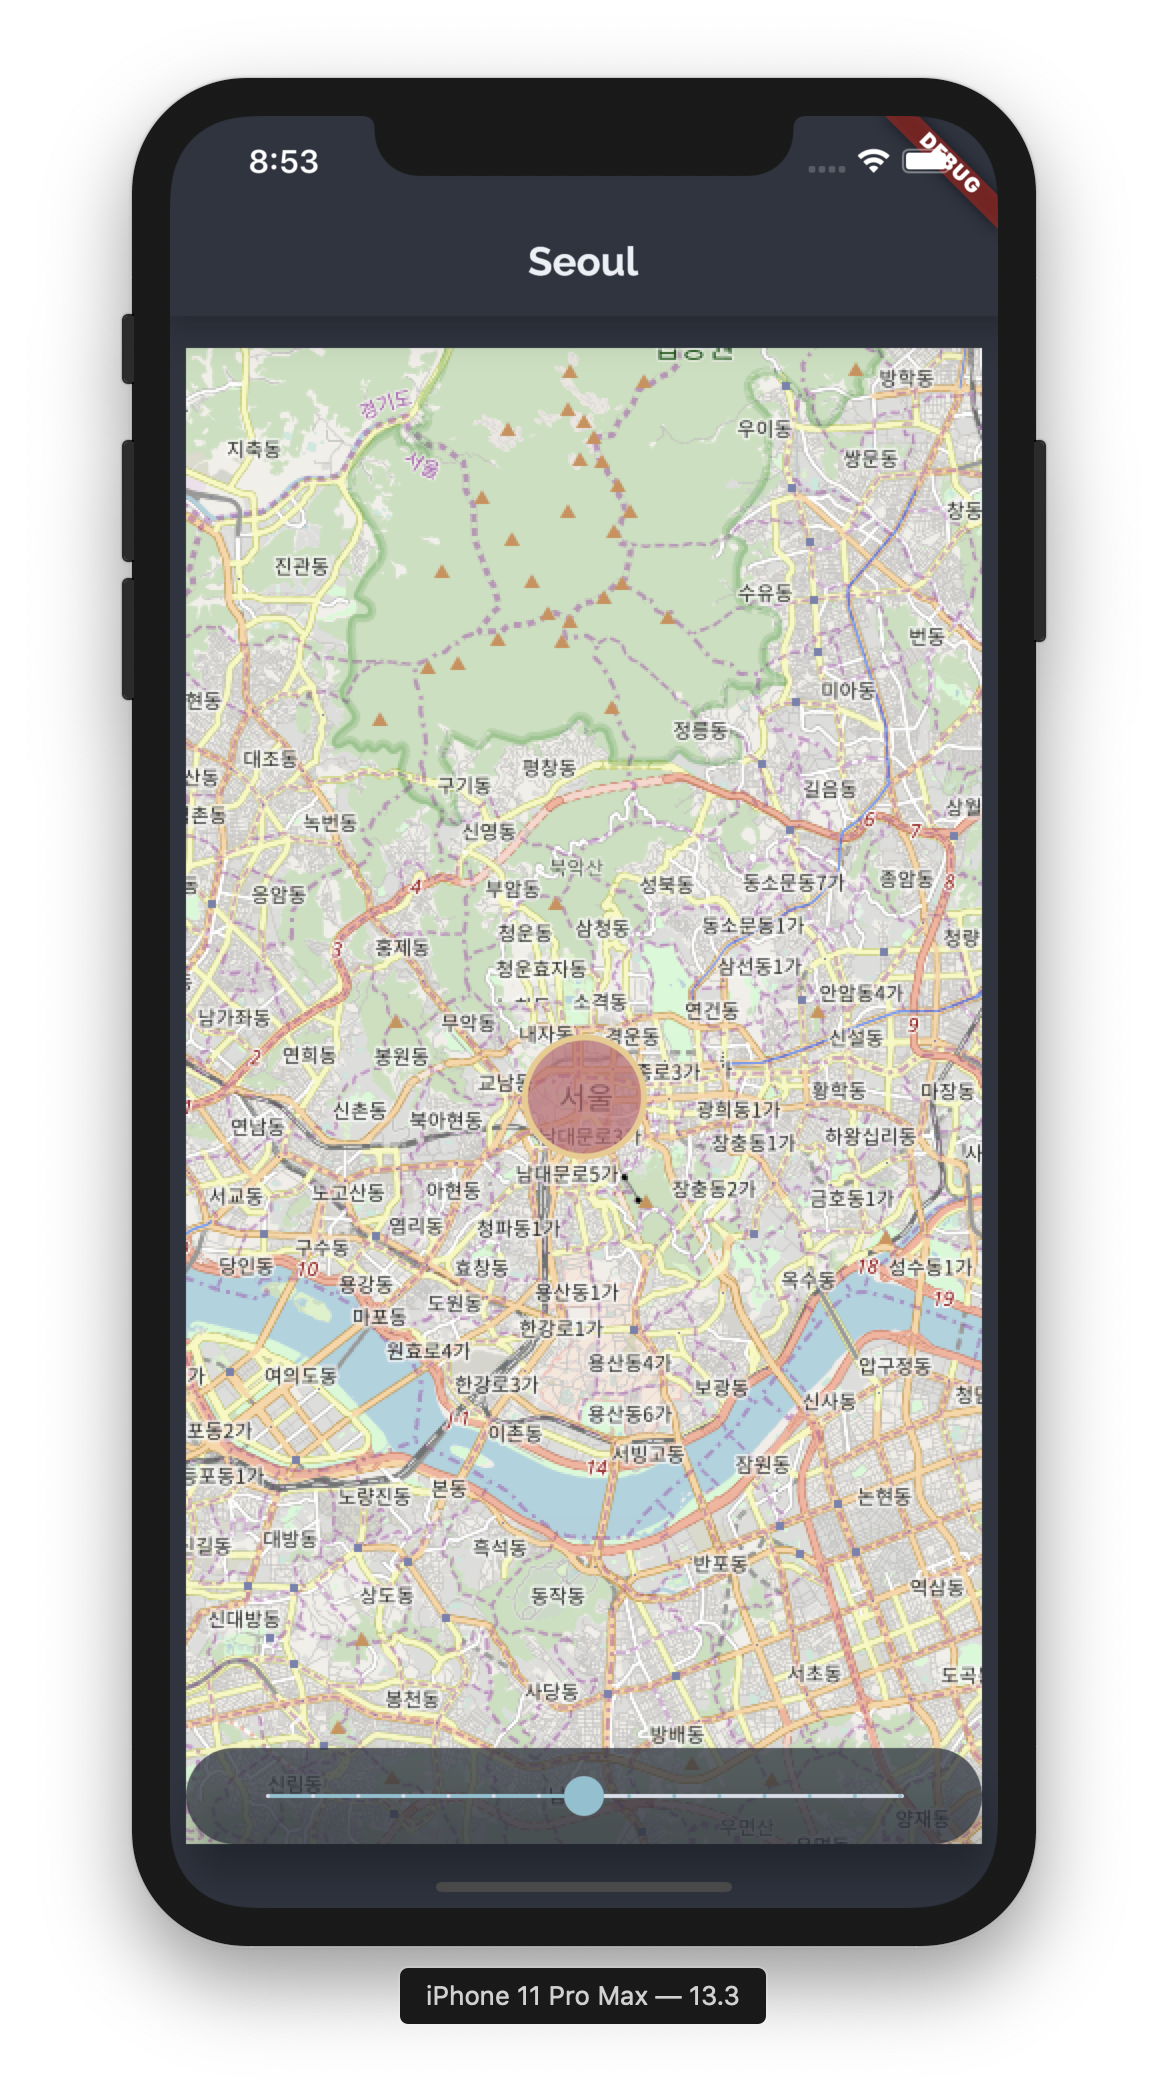
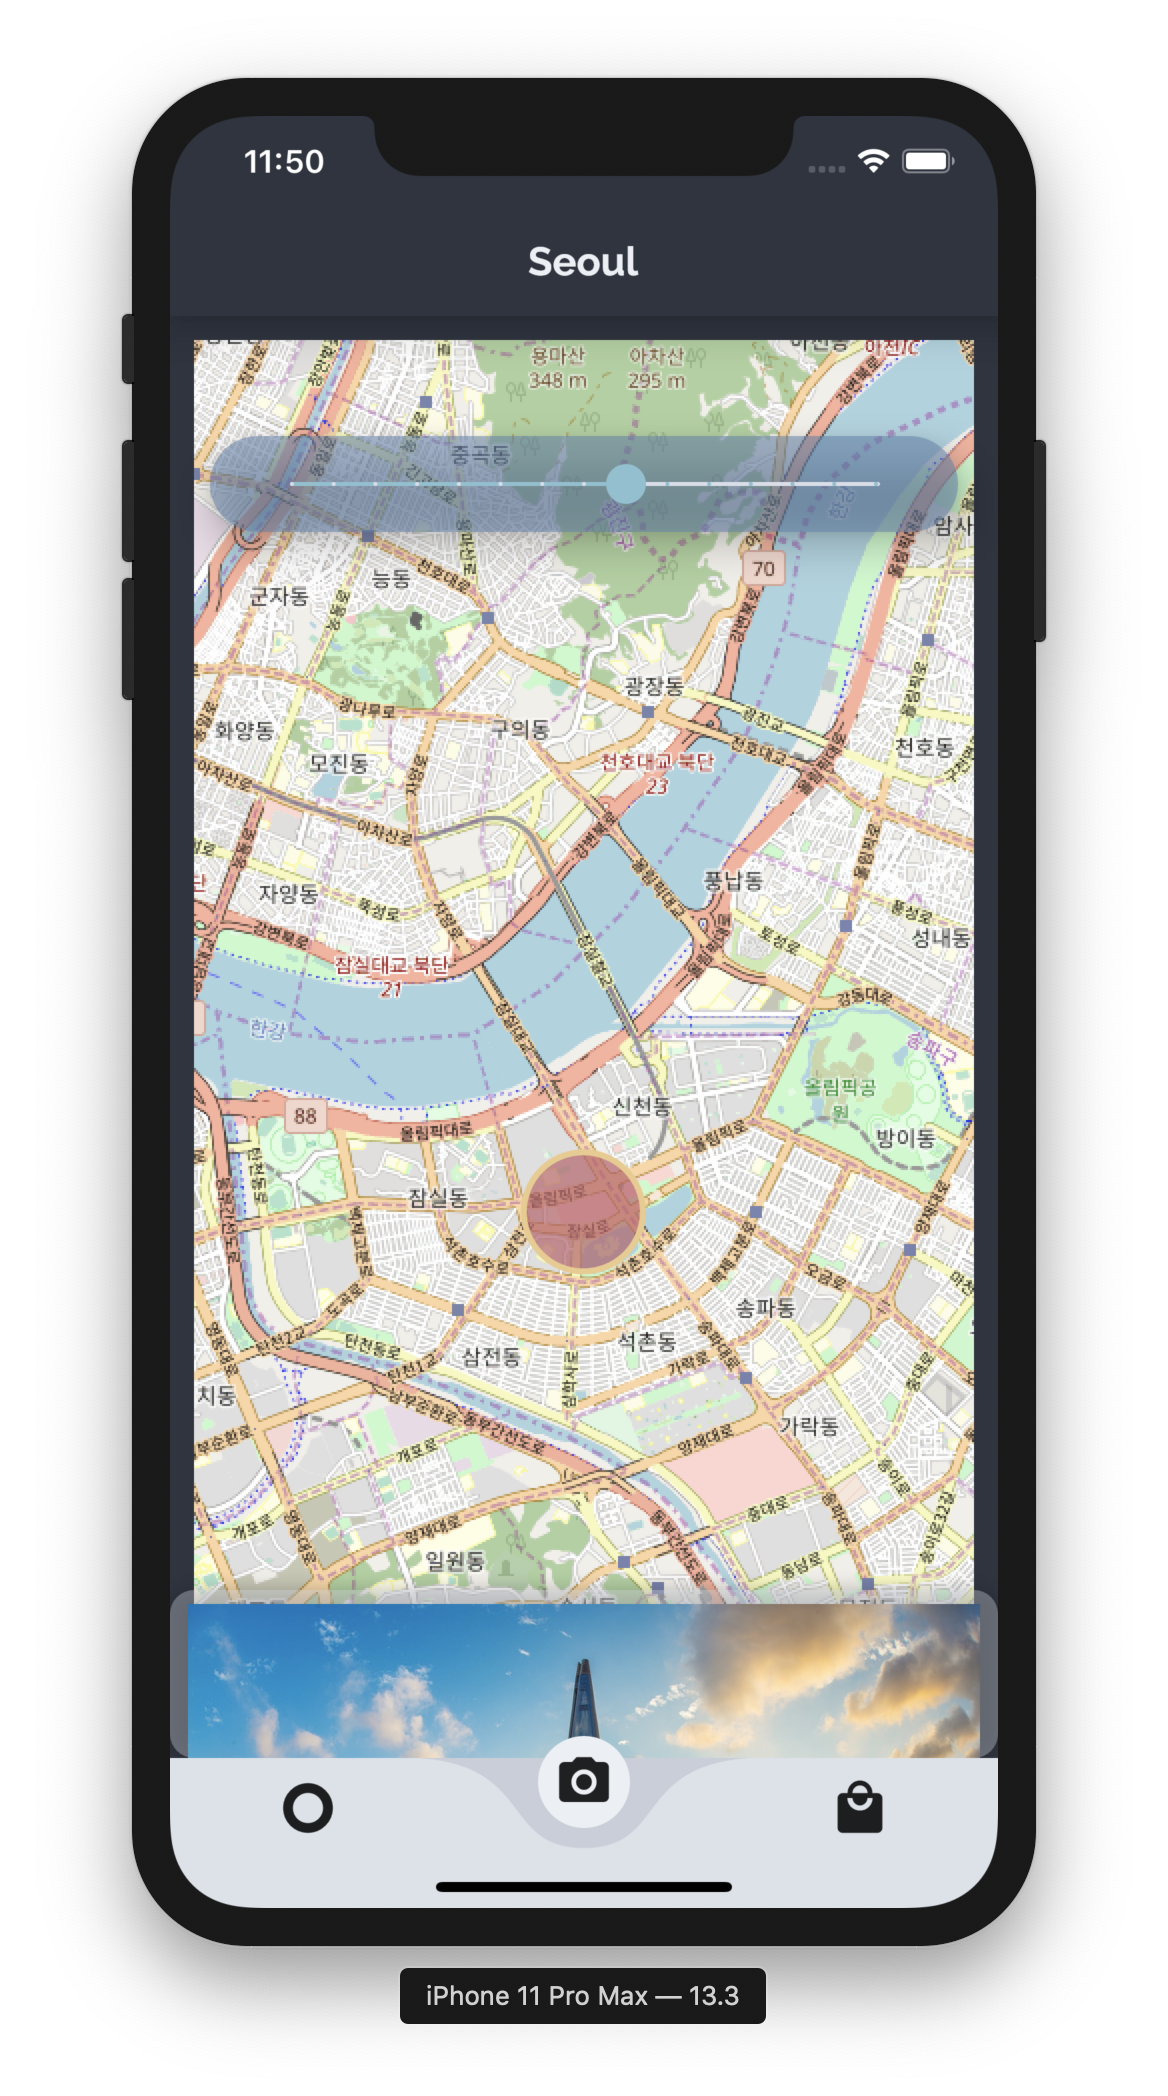
feat(UI): demo of bottom navigation

diff --git a/lib/main.dart b/lib/main.dart
@@ -1,5 +1,6 @@
 import 'package:flutter/material.dart';
 
+import 'package:curved_navigation_bar/curved_navigation_bar.dart';
 import 'package:flutter_map/flutter_map.dart';
 import 'package:flutter_mobx/flutter_mobx.dart';
 import 'package:google_fonts/google_fonts.dart';
@@ -12,6 +13,8 @@ import 'package:supercharged/supercharged.dart';
 
 import 'package:fl_seoul/store/zoom_slider.dart';
 import 'package:fl_seoul/util.dart';
+import 'package:fl_seoul/widgets/dongdaemoon_widget.dart';
+import 'package:fl_seoul/widgets/lotte_widget.dart';
 import 'package:fl_seoul/widgets/seoul_widget.dart';
 
 void main() async {
@@ -50,19 +53,29 @@ class CirclePage extends StatefulWidget {
   _CirclePageState createState() => _CirclePageState();
 }
 
-class _CirclePageState extends State<CirclePage> {
-  static final double _latitude = 37.5665;
-  static final double _longitude = 126.9780;
-
+class _CirclePageState extends State<CirclePage> with TickerProviderStateMixin {
+  int _tapIndex;
   MapController _mapController;
   LatLng _center;
+  CircleMarker _marker;
+  List<LatLng> locations = [
+    LatLng(37.5665, 126.9780), // Seoul City Hall
+    LatLng(37.511234, 127.098030), // Lotte Tower
+    LatLng(37.5704, 127.0078) // Dongdaemoon Market
+  ];
 
   @override
   void initState() {
     super.initState();
 
+    _tapIndex = 0;
     _mapController = MapController();
-    _center = LatLng(_latitude, _longitude);
+    _center = locations[_tapIndex];
+  }
+
+  @override
+  void dispose() {
+    super.dispose();
   }
 
   @override
@@ -70,16 +83,19 @@ class _CirclePageState extends State<CirclePage> {
     final ZoomSlider zoomSlider =
         Provider.of<ZoomSlider>(context, listen: false);
 
-    var circleMarkers = <CircleMarker>[
-      CircleMarker(
-          point: LatLng(_latitude, _longitude),
-          color: '#bf616a'.toColor().withOpacity(0.7),
-          borderColor: '#ebcb8b'.toColor(),
-          borderStrokeWidth: 3,
-          useRadiusInMeter: true,
-          radius: getRadius(zoomSlider.value) // 200 meters | 0.2 km
-          ),
-    ];
+    var _radius = getRadius(zoomSlider.value);
+
+    List<CircleMarker> circleMarkers = locations
+        .asMap()
+        .entries
+        .map((entry) => CircleMarker(
+            point: locations[entry.key],
+            color: '#bf616a'.toColor().withOpacity(0.7),
+            borderColor: '#ebcb8b'.toColor(),
+            borderStrokeWidth: 3,
+            useRadiusInMeter: true,
+            radius: _radius))
+        .toList();
 
     return Scaffold(
         appBar: AppBar(
@@ -91,12 +107,47 @@ class _CirclePageState extends State<CirclePage> {
                         color: '#eceff4'.toColor(),
                         fontWeight: FontWeight.w700)))),
         backgroundColor: '#2e3440'.toColor(),
+        bottomNavigationBar: CurvedNavigationBar(
+          animationDuration: Duration(milliseconds: 500),
+          backgroundColor: '#c8ced9'.toColor(),
+          buttonBackgroundColor: '#eceff4'.toColor(),
+          color: '#e5e9f0'.toColor().withOpacity(0.7),
+          items: <Widget>[
+            Icon(Icons.trip_origin, size: 30),
+            Icon(Icons.local_see, size: 30),
+            Icon(Icons.local_mall, size: 30),
+          ],
+          onTap: (index) {
+            LatLng location;
+            int markerIndex;
+            switch (index) {
+              case 0:
+              case 1:
+              case 2:
+                location = locations[index];
+                markerIndex = index;
+                _tapIndex = index;
+                break;
+              default:
+                location = locations[0];
+                markerIndex = 0;
+                _tapIndex = 0;
+                break;
+            }
+            setState(() {
+              _marker = circleMarkers[markerIndex];
+              _center = location;
+              _radius = getRadius(zoomSlider.value);
+              _animatedMapMove(_center, zoomSlider.value);
+            });
+          },
+        ),
         body: SlidingUpPanel(
-            borderRadius: BorderRadius.all(Radius.circular(16.0)),
-            color: '#2e3440'.toColor().withOpacity(0.35),
-            minHeight: 128.0,
-            maxHeight: 520.0,
-            panel: SeoulWidget(),
+            borderRadius: BorderRadius.all(Radius.circular(12.0)),
+            color: '#d8dee9'.toColor().withOpacity(0.35),
+            minHeight: 84.0,
+            maxHeight: 532.0,
+            panel: _getSlidingUpWidget(_tapIndex),
             body: Consumer<ZoomSlider>(builder: (context, zoomSLider, _) {
               return Padding(
                 padding: EdgeInsets.all(12.0),
@@ -114,7 +165,10 @@ class _CirclePageState extends State<CirclePage> {
                                       urlTemplate:
                                           'https://{s}.tile.openstreetmap.org/{z}/{x}/{y}.png',
                                       subdomains: ['a', 'b', 'c']),
-                                  CircleLayerOptions(circles: circleMarkers)
+                                  CircleLayerOptions(
+                                      circles: _marker != null
+                                          ? <CircleMarker>[_marker]
+                                          : <CircleMarker>[circleMarkers[0]])
                                 ],
                                 mapController: _mapController,
                               ),
@@ -142,8 +196,8 @@ class _CirclePageState extends State<CirclePage> {
                               onChanged: (sliderValue) {
                                 setState(() {
                                   zoomSlider.newvalue(sliderValue);
-                                  _mapController.move(
-                                      _center, zoomSlider.value);
+                                  _radius = getRadius(zoomSlider.value);
+                                  _animatedMapMove(_center, zoomSlider.value);
                                   showSimpleNotification(
                                       Text('Zoom Level set to $sliderValue',
                                           style: GoogleFonts.poppins(
@@ -169,5 +223,48 @@ class _CirclePageState extends State<CirclePage> {
                 ]),
               );
             })));
+  }
+
+  void _animatedMapMove(LatLng destLocation, double destZoom) {
+    final _latTween = Tween<double>(
+        begin: _mapController.center.latitude, end: destLocation.latitude);
+    final _lngTween = Tween<double>(
+        begin: _mapController.center.longitude, end: destLocation.longitude);
+    final _zoomTween = Tween<double>(begin: _mapController.zoom, end: destZoom);
+
+    var controller = AnimationController(
+        duration: const Duration(milliseconds: 650), vsync: this);
+
+    Animation<double> animation =
+        CurvedAnimation(parent: controller, curve: Curves.fastOutSlowIn);
+
+    controller.addListener(() {
+      _mapController.move(
+          LatLng(_latTween.evaluate(animation), _lngTween.evaluate(animation)),
+          _zoomTween.evaluate(animation));
+    });
+
+    animation.addStatusListener((status) {
+      if (status == AnimationStatus.completed) {
+        controller.dispose();
+      } else if (status == AnimationStatus.dismissed) {
+        controller.dispose();
+      }
+    });
+
+    controller.forward();
+  }
+
+  StatelessWidget _getSlidingUpWidget(int index) {
+    switch (index) {
+      case 0:
+        return SeoulWidget();
+      case 1:
+        return LotteWidget();
+      case 2:
+        return DongdaemmonWidget();
+      default:
+        return SeoulWidget();
+    }
   }
 }

diff --git a/lib/widgets/dongdaemoon_widget.dart b/lib/widgets/dongdaemoon_widget.dart
@@ -4,7 +4,7 @@ import 'package:google_fonts/google_fonts.dart';
 import 'package:cached_network_image/cached_network_image.dart';
 import 'package:supercharged/supercharged.dart';
 
-class SeoulWidget extends StatelessWidget {
+class DongdaemmonWidget extends StatelessWidget {
   @override
   Widget build(BuildContext context) {
     return Padding(
@@ -17,12 +17,12 @@ class SeoulWidget extends StatelessWidget {
                 children: <Widget>[
                   CachedNetworkImage(
                     imageUrl:
-                        'https://images.adsttc.com/media/images/52aa/607b/e8e4/4ee8/8f00/0048/slideshow/cityhallct107.jpg',
+                        'https://st3.depositphotos.com/6193152/15484/v/600/depositphotos_154841576-stock-video-4k-timelapse-of-the-dongdaemun.jpg',
                     placeholder: (context, url) => CircularProgressIndicator(),
                     errorWidget: (context, url, error) => Icon(Icons.error),
                   ),
                   SizedBox(height: 4.0),
-                  Text('Seoul City Hall',
+                  Text('Dongdaemoon Plaza',
                       style: GoogleFonts.poppins(
                           fontSize: 24.0,
                           fontWeight: FontWeight.w500,
@@ -33,11 +33,9 @@ class SeoulWidget extends StatelessWidget {
                   Container(
                       padding: EdgeInsets.fromLTRB(8.0, 6.0, 8.0, 2.0),
                       child: Text(
-                          '  Seoul, the capital of South Korea, is a huge metropolis where modern skyscrapers, ' +
-                              'high-tech subways and pop culture meet Buddhist temples, palaces and street markets. ' +
-                              'Notable attractions include futuristic Dongdaemun Design Plaza, a convention hall with ' +
-                              'curving architecture and a rooftop park; Gyeongbokgung Palace, which once had more than ' +
-                              '7,000 rooms; and Jogyesa Temple, site of ancient locust and pine trees.',
+                          '  The Dongdaemun Design Plaza, also called the DDP, is a major urban development landmark in Seoul, ' +
+                              'South Korea designed by Zaha Hadid and Samoo, with a distinctively neofuturistic design characterized ' +
+                              'by the powerful, curving forms of elongated structures.',
                           style: GoogleFonts.gelasio(
                               fontSize: 16.0,
                               fontWeight: FontWeight.w400,

diff --git a/lib/widgets/lotte_widget.dart b/lib/widgets/lotte_widget.dart
@@ -4,7 +4,7 @@ import 'package:google_fonts/google_fonts.dart';
 import 'package:cached_network_image/cached_network_image.dart';
 import 'package:supercharged/supercharged.dart';
 
-class SeoulWidget extends StatelessWidget {
+class LotteWidget extends StatelessWidget {
   @override
   Widget build(BuildContext context) {
     return Padding(
@@ -17,12 +17,12 @@ class SeoulWidget extends StatelessWidget {
                 children: <Widget>[
                   CachedNetworkImage(
                     imageUrl:
-                        'https://images.adsttc.com/media/images/52aa/607b/e8e4/4ee8/8f00/0048/slideshow/cityhallct107.jpg',
+                        'https://www.globalcovenantofmayors.org/wp-content/uploads/2019/02/lotte-world-tower-1791802_1280.jpg',
                     placeholder: (context, url) => CircularProgressIndicator(),
                     errorWidget: (context, url, error) => Icon(Icons.error),
                   ),
                   SizedBox(height: 4.0),
-                  Text('Seoul City Hall',
+                  Text('Lotte Tower',
                       style: GoogleFonts.poppins(
                           fontSize: 24.0,
                           fontWeight: FontWeight.w500,
@@ -33,11 +33,9 @@ class SeoulWidget extends StatelessWidget {
                   Container(
                       padding: EdgeInsets.fromLTRB(8.0, 6.0, 8.0, 2.0),
                       child: Text(
-                          '  Seoul, the capital of South Korea, is a huge metropolis where modern skyscrapers, ' +
-                              'high-tech subways and pop culture meet Buddhist temples, palaces and street markets. ' +
-                              'Notable attractions include futuristic Dongdaemun Design Plaza, a convention hall with ' +
-                              'curving architecture and a rooftop park; Gyeongbokgung Palace, which once had more than ' +
-                              '7,000 rooms; and Jogyesa Temple, site of ancient locust and pine trees.',
+                          '  Lotte World Tower is a 123-floor, 555-metre supertall skyscraper located in Seoul, ' +
+                              'South Korea. It opened to the public on April 11, 2017 and is currently the tallest ' +
+                              'building in South Korea, and is the 6th tallest building in the world',
                           style: GoogleFonts.gelasio(
                               fontSize: 16.0,
                               fontWeight: FontWeight.w400,
